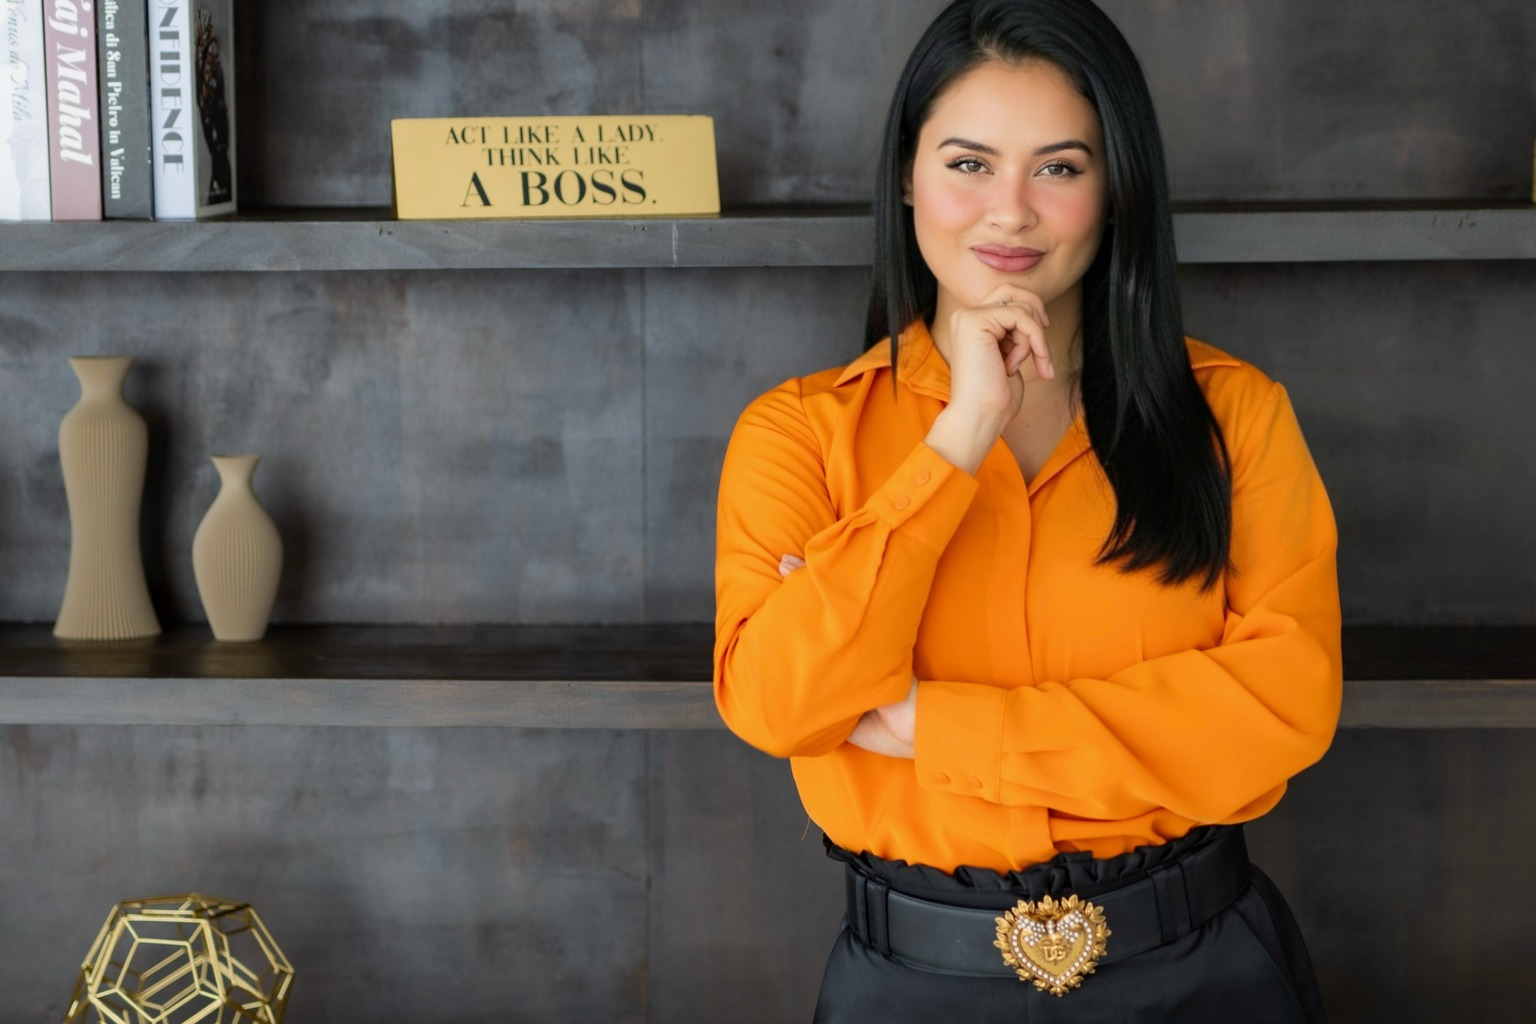
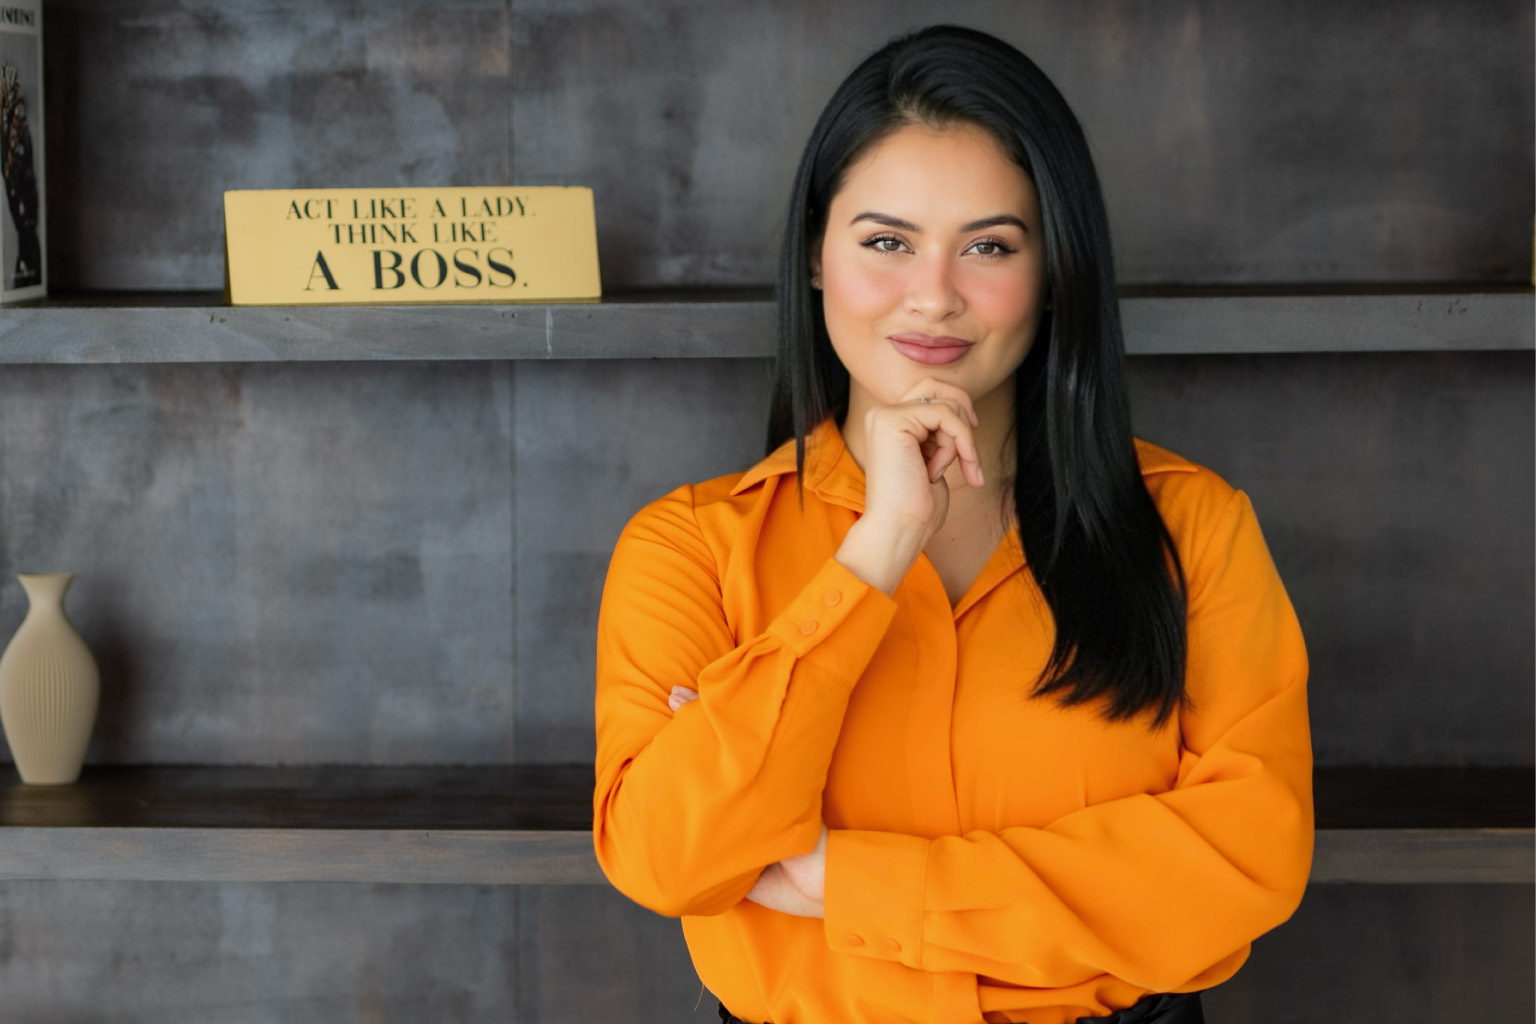
Update Photos

diff --git a/src/data/media.ts b/src/data/media.ts
@@ -1,16 +1,16 @@
 // Replace media files in public/media without editing components.
 // To use a video in About, change type to 'video' and src to your .mp4 file.
 export const media = {
-  hero: { type: 'image', src: '/media/images/hero-horizontal.png', alt: 'Paulina — personal brand portrait' },
+  hero: { type: 'image', src: '/media/images/hero-horizontal.jpg', alt: 'Paulina — personal brand portrait' },
   about: { type: 'image', src: '/media/images/about.jpg', alt: 'Paulina — about portrait', autoplay: false },
   services: [
     { type: 'image', src: '/media/images/real-estate.jpg', alt: 'Real estate interiors' },
     { type: 'image', src: '/media/images/notary.png', alt: 'Notary documents' },
-    { type: 'image', src: '/media/images/lifestyle.png', alt: 'Alpha Key' }
+    { type: 'image', src: '/media/images/lifestyle.jpg', alt: 'Alpha Key' }
   ],
   life: [
-    { type: 'image', src: '/media/images/life-01.png', alt: 'Places and moments' },
-    { type: 'image', src: '/media/images/life-02.png', alt: 'Projects and ideas' },
+    { type: 'image', src: '/media/images/life-01.jpg', alt: 'Places and moments' },
+    { type: 'image', src: '/media/images/life-02.jpg', alt: 'Projects and ideas' },
     { type: 'image', src: '/media/images/life-03.jpg', alt: 'Everyday style' }
   ]
 } as const;
